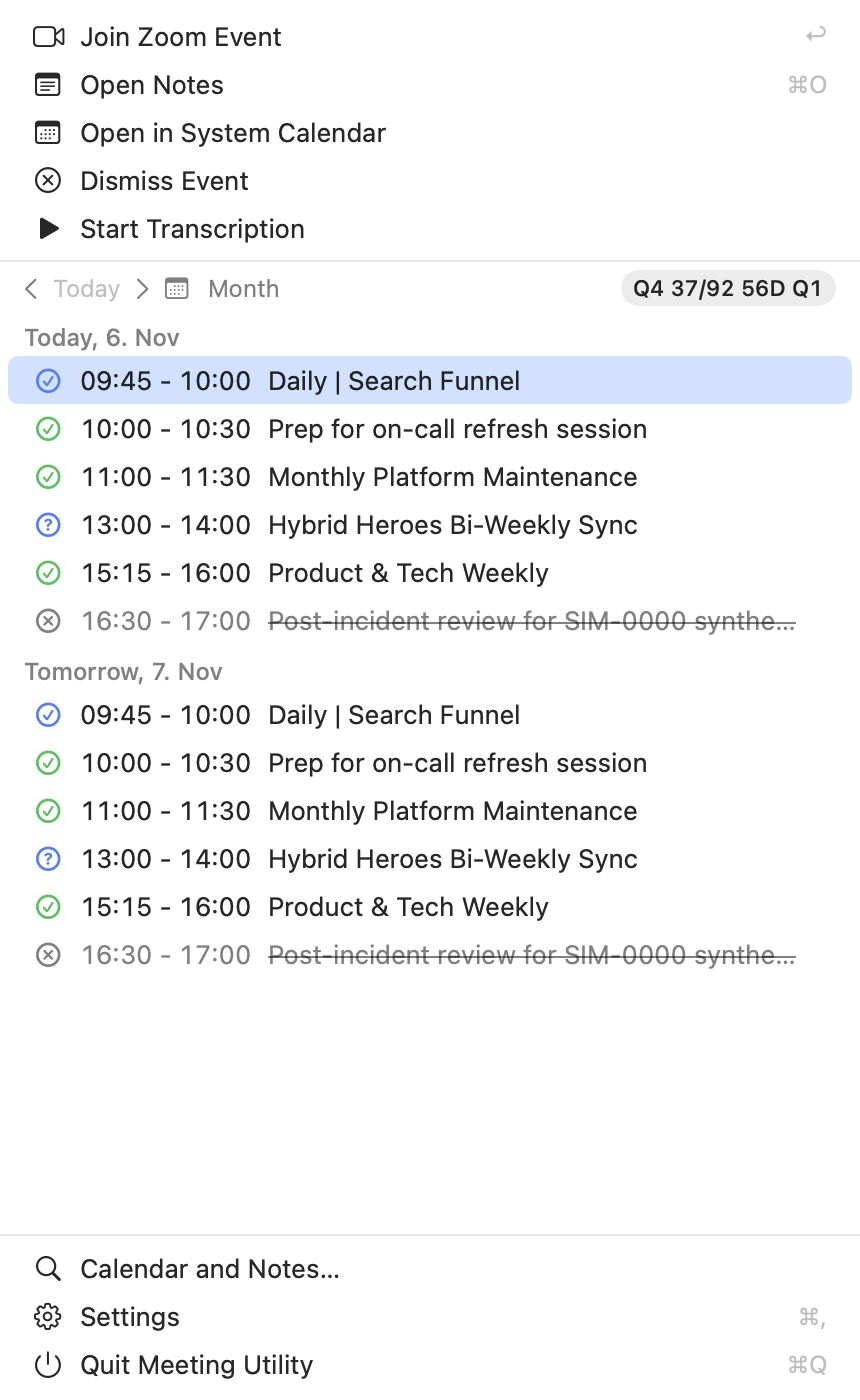
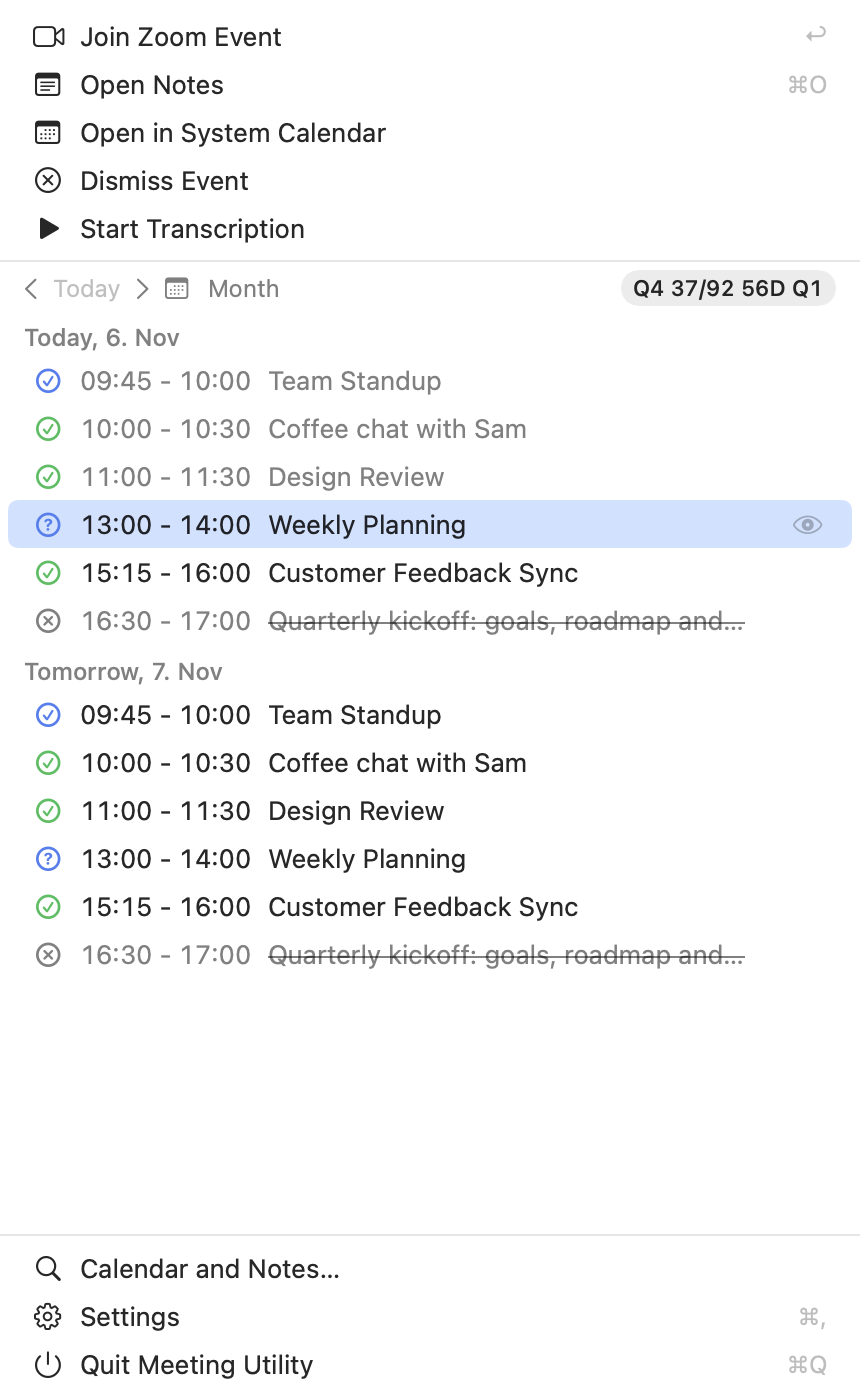
Generic sample data in screenshots and fixtures; drop hero image
Replace the synthetic calendar titles, sample notes and Talktrack script with
generic examples, re-render the README screenshots, and remove the hero still
and the unused Talktrack screenshot.

Changed region(s): [[0.0, 0.2457, 0.9977, 0.4607], [0.3023, 0.4914, 0.907, 0.7064]]

diff --git a/App/Sources/Core/SnapshotRenderer.swift b/App/Sources/Core/SnapshotRenderer.swift
@@ -25,15 +25,15 @@ enum SnapshotRenderer {
                 render(OnboardingView(services: services, initialStep: step, onFinish: {}), size: NSSize(width: 680, height: 640), appearance: .aqua, to: out.appendingPathComponent("onboarding-\(step).png"))
             }
             render(HistoryView(services: services), size: NSSize(width: 1040, height: 720), appearance: .aqua, to: out.appendingPathComponent("history.png"))
-            if let item = services.calendar.agendaItems.first(where: { $0.event.title.contains("Product") }) ?? services.calendar.agendaItems.first,
+            if let item = services.calendar.agendaItems.first(where: { $0.event.title.contains("Customer") }) ?? services.calendar.agendaItems.first,
                let r = services.calendar.resolvedOccurrence(for: item) {
                 let nb = NotebookViewModel(services: services)
                 await nb.open(occurrenceID: r.occurrence.id, resolved: r)
-                nb.occurrenceNotes.text = "## Agenda\n- Funnel conversion review\n- Launch checklist\n\nAlex to share the dashboard."
+                nb.occurrenceNotes.text = "## Agenda\n- Wins from last week\n- Customer feedback themes\n- Priorities for next week\n\nSam to send the recap."
                 render(NotebookView(model: nb, coordinator: services.coordinator, summaries: services.summaries), size: NSSize(width: 980, height: 700), appearance: .aqua, to: out.appendingPathComponent("notebook.png"))
                 let tt = TalktrackModel(services: services)
                 tt.title = item.event.title
-                tt.editor.text = "Good morning everyone.\n\nToday I want to walk through three things: where the search funnel stands, what we learned from last week's experiment, and what we'll ship next.\n\nFirst, conversion is up three percent week over week."
+                tt.editor.text = "Good morning everyone.\n\nToday I want to walk through three things: what customers told us this month, what we changed because of it, and what we'll try next.\n\nFirst, the most common request was a simpler setup."
                 render(TalktrackView(model: tt, settings: services.settings, onPin: { _ in }, onClose: {}), size: NSSize(width: 600, height: 380), appearance: .darkAqua, to: out.appendingPathComponent("talktrack.png"))
                 tt.editor.text = ""
             }

diff --git a/App/Sources/Calendar/CalendarRepositories.swift b/App/Sources/Calendar/CalendarRepositories.swift
@@ -141,12 +141,12 @@ actor FakeCalendarRepository: CalendarRepository {
 
     struct F { var h: Int; var m: Int; var dur: Int; var title: String; var provider: String?; var recurring: Bool; var rsvp: RSVPStatus }
     static let fixture: [F] = [
-        F(h: 9, m: 45, dur: 15, title: "Daily | Search Funnel", provider: "zoom", recurring: true, rsvp: .accepted),
-        F(h: 10, m: 0, dur: 30, title: "Prep for on-call refresh session", provider: "meet", recurring: false, rsvp: .accepted),
-        F(h: 11, m: 0, dur: 30, title: "Monthly Platform Maintenance", provider: "teams", recurring: true, rsvp: .accepted),
-        F(h: 13, m: 0, dur: 60, title: "Hybrid Heroes Bi-Weekly Sync", provider: "zoom", recurring: true, rsvp: .tentative),
-        F(h: 15, m: 15, dur: 45, title: "Product & Tech Weekly", provider: "meet", recurring: true, rsvp: .accepted),
-        F(h: 16, m: 0, dur: 30, title: "Leasing AB Test Set Up", provider: nil, recurring: false, rsvp: .accepted),
-        F(h: 16, m: 30, dur: 30, title: "Post-incident review for SIM-0000 synthetic ticket with a long title", provider: "zoom", recurring: false, rsvp: .declined),
+        F(h: 9, m: 45, dur: 15, title: "Team Standup", provider: "zoom", recurring: true, rsvp: .accepted),
+        F(h: 10, m: 0, dur: 30, title: "Coffee chat with Sam", provider: "meet", recurring: false, rsvp: .accepted),
+        F(h: 11, m: 0, dur: 30, title: "Design Review", provider: "teams", recurring: true, rsvp: .accepted),
+        F(h: 13, m: 0, dur: 60, title: "Weekly Planning", provider: "zoom", recurring: true, rsvp: .tentative),
+        F(h: 15, m: 15, dur: 45, title: "Customer Feedback Sync", provider: "meet", recurring: true, rsvp: .accepted),
+        F(h: 16, m: 0, dur: 30, title: "Focus time", provider: nil, recurring: false, rsvp: .accepted),
+        F(h: 16, m: 30, dur: 30, title: "Quarterly kickoff: goals, roadmap and open questions for the next quarter", provider: "zoom", recurring: false, rsvp: .declined),
     ]
 }

diff --git a/Packages/MeetingKit/Tests/MeetingCoreTests/CoreTests.swift b/Packages/MeetingKit/Tests/MeetingCoreTests/CoreTests.swift
@@ -468,8 +468,8 @@ struct AgendaTests {
         #expect(CountdownFormatter.format(minutes: 60) == "60m")
         #expect(CountdownFormatter.format(minutes: 61) == "1h")
         #expect(CountdownFormatter.format(minutes: 157) == "2h")   // 2h 37m
-        let i = item("LM Incident Refresher", "2026-11-05 12:37", "2026-11-05 13:00")
-        #expect(CountdownFormatter.statusTitle(item: i, now: date("2026-11-05 10:00"), length: .long) == "LM Incident Refresher • in 2h")
+        let i = item("Design Review", "2026-11-05 12:37", "2026-11-05 13:00")
+        #expect(CountdownFormatter.statusTitle(item: i, now: date("2026-11-05 10:00"), length: .long) == "Design Review • in 2h")
     }
 }
 

diff --git a/README.md b/README.md
@@ -26,10 +26,6 @@
   <a href="docs/privacy.md">Privacy</a>
 </p>
 
-<p align="center">
-  <img src="docs/images/hero.jpg" width="820" alt="meetingutils joining a call from the notch, with a live local transcript">
-</p>
-
 ## Features
 
 - **Agenda in the menu bar or the notch.** Today and tomorrow at a glance, keyboard-driven (↑/↓, Return to join,
